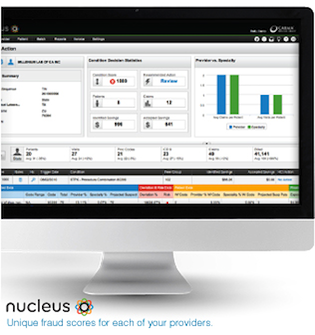
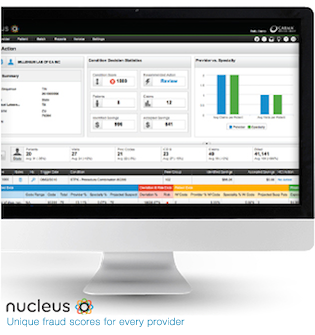
more copy changes from cory change out the problem box images again rebuild the monitor graphic for fraud page misc style adjustments

Changed region(s): [[0.0286, 0.9254, 0.6857, 0.9851], [0.4857, 0.5373, 0.5143, 0.5672]]

diff --git a/public/stylesheets/verisk.css b/public/stylesheets/verisk.css
@@ -1404,7 +1404,7 @@ a.casetracker-insight_index_wrap {
   width: 360px;
 }*/
 .graph_box {
-  height: 250px;
+  height: 270px;
   position: relative;
   width: 360px;
 	float: left;
@@ -1416,14 +1416,14 @@ a.casetracker-insight_index_wrap {
   background: url(../images/service_pages/graphs.png) right -1000px no-repeat;
 }
 .claims_graph {
-	 background: url(../images/service_pages/claims_arrows.png) no-repeat;
+	 background: url(../images/service_pages/claims_can.png) no-repeat;
 /*>   background: url(../images/service_pages/graphs.png) right -750px no-repeat;*/
 }
 .fraud_graph {
-	 background: url(../images/service_pages/fraud_graph.png) no-repeat;
+	 background: url(../images/service_pages/fraud_graph1.png) no-repeat;
 }
 .bill_graph {
-	background: url(../images/service_pages/bill_graph.png) no-repeat;
+	background: url(../images/service_pages/bill_human.png) no-repeat;
 }
 .oci_graph {
   background: url(../images/service_pages/graphs.png) right -500px no-repeat;
@@ -2497,7 +2497,7 @@ div.odd_row .grid_content_wrap {
 /*********************************************************************************************/
 /*************************************************************** THICK THIN HEADERS  *********/
 h2.thick_thin_header {
-  font-size: 23px;
+  font-size: 22px;
   font-weight: 600;
 /*  letter-spacing: -3px;*/
   padding: 20px 10px 10px 28px;
